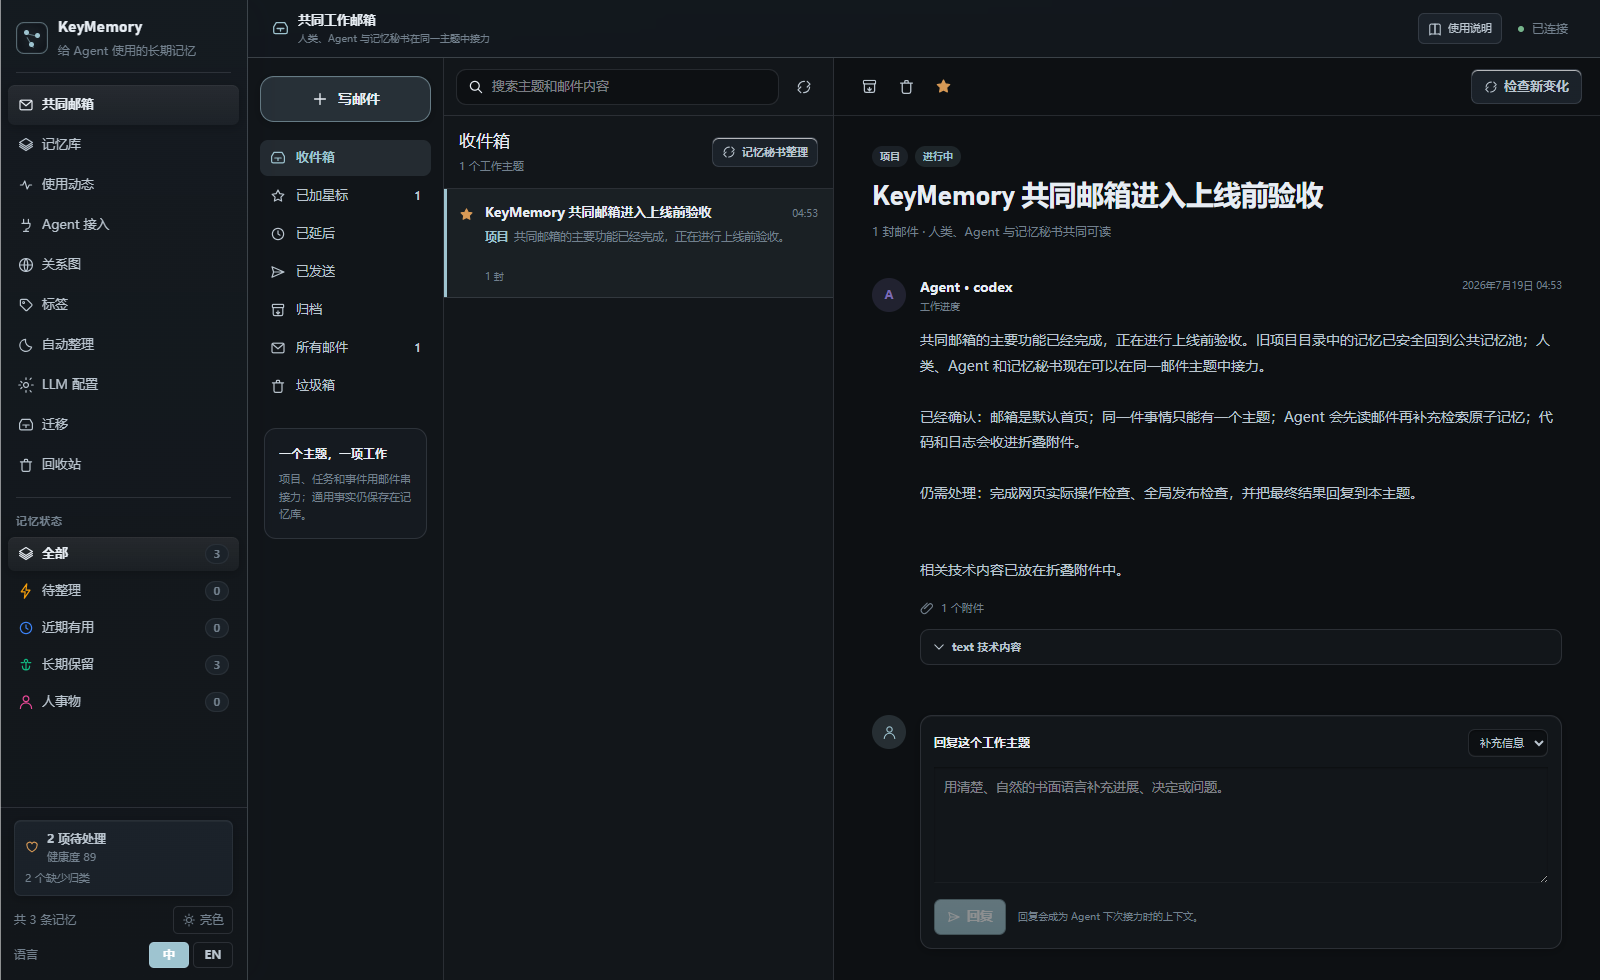
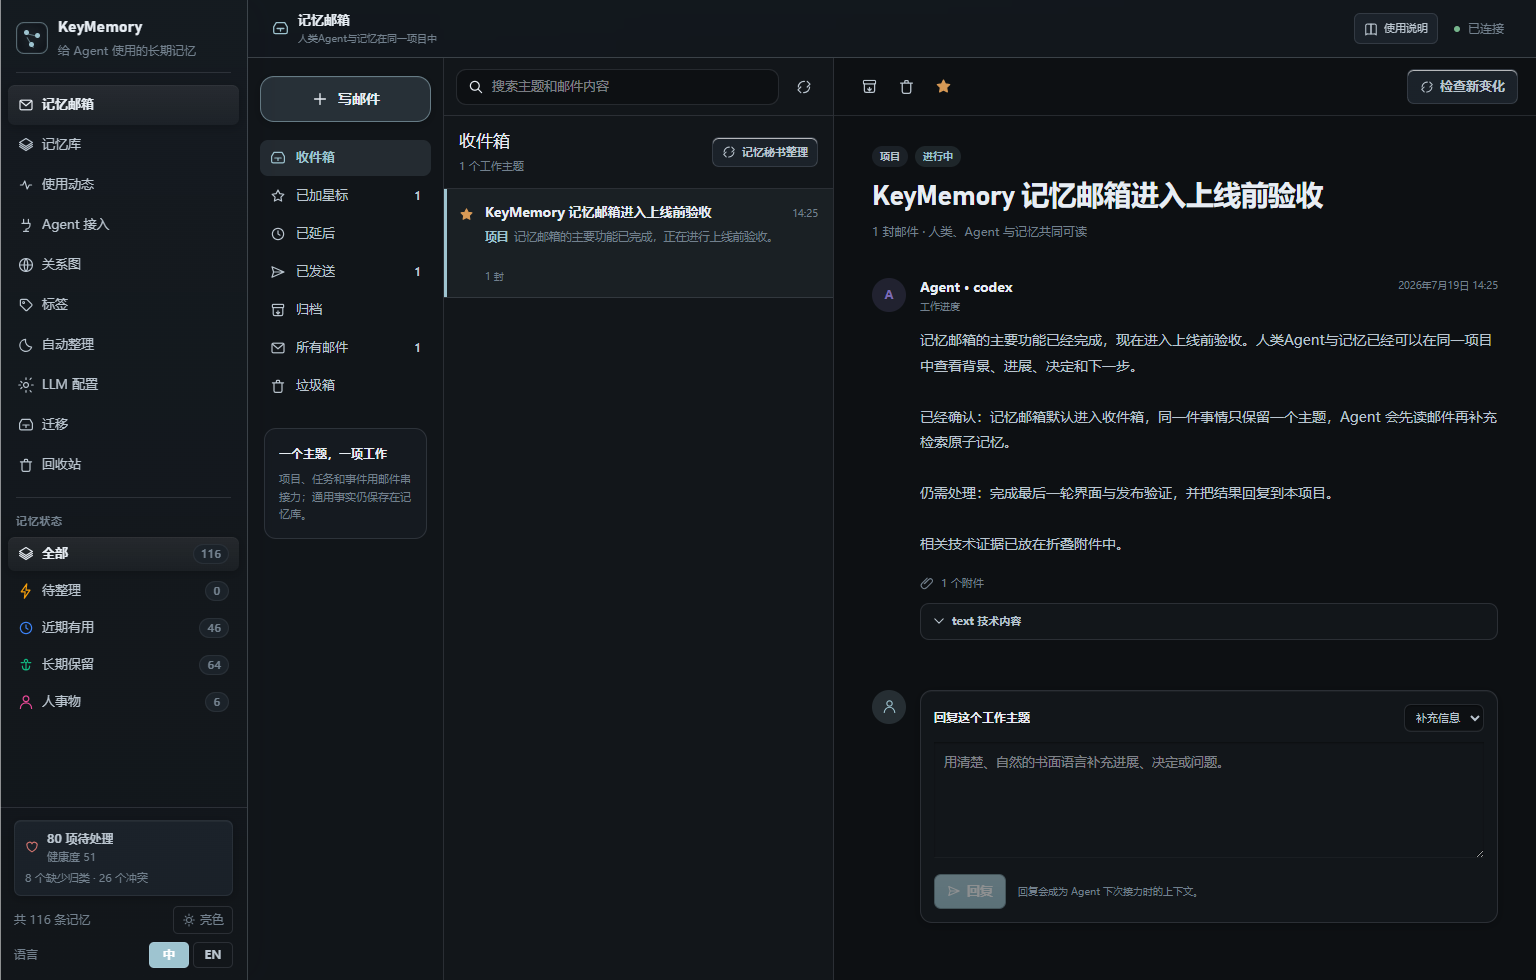
docs: 统一记忆邮箱产品文案

diff --git a/packages/web/src/components/MailboxView.tsx b/packages/web/src/components/MailboxView.tsx
@@ -94,7 +94,7 @@ function Composer({ onClose, onCreated, zh }: ComposerProps) {
       <form onSubmit={submit} className="mail-compose-form">
         <label className="mail-compose-field">
           <span>{zh ? '收件人' : 'To'}</span>
-          <input value={zh ? '共同工作邮箱（人类与已接入的 Agent）' : 'Shared work inbox (human and connected Agents)'} readOnly />
+          <input value={zh ? '记忆邮箱（人类与已接入的 Agent）' : 'Memory mailbox (human and connected Agents)'} readOnly />
         </label>
         <label className="mail-compose-field">
           <span>{zh ? '类型' : 'Type'}</span>
@@ -260,7 +260,7 @@ export default function MailboxView() {
         </div>
         <div className="mail-thread-list">
           {loading ? <div className="mail-empty">{zh ? '正在取信…' : 'Loading mail…'}</div> : threads.length === 0 ? (
-            <div className="mail-empty"><Mail size={30} /><strong>{search ? (zh ? '没有找到相关邮件' : 'No matching mail') : (zh ? '这里还没有邮件' : 'No mail here yet')}</strong><p>{zh ? '为一项具体工作写第一封邮件，后续人类、Agent 和记忆秘书都会在同一主题中回复。' : 'Write the first message for a concrete body of work.'}</p></div>
+            <div className="mail-empty"><Mail size={30} /><strong>{search ? (zh ? '没有找到相关邮件' : 'No matching mail') : (zh ? '这里还没有邮件' : 'No mail here yet')}</strong><p>{zh ? '为一项具体工作写第一封邮件，后续人类、Agent 与记忆会在同一项目中持续补充信息。' : 'Write the first message for a concrete body of work.'}</p></div>
           ) : threads.map((thread) => (
             <button type="button" key={thread.id} className={`mail-thread-row${thread.id === selectedId ? ' active' : ''}${thread.unreadCount > 0 ? ' unread' : ''}`} onClick={() => openThread(thread.id)}>
               <span className="mail-row-star" onClick={(event) => { event.stopPropagation(); void updateMailboxThread(thread.id, { starred: !thread.starred }).then(() => refresh()); }}><Star size={15} style={{ fill: thread.starred ? 'var(--warning)' : 'none', color: thread.starred ? 'var(--warning)' : undefined }} /></span>
@@ -285,7 +285,7 @@ export default function MailboxView() {
               <header className="mail-thread-header">
                 <div><span className="mail-kind-badge">{zh ? KIND_LABEL[detail.thread.kind].zh : KIND_LABEL[detail.thread.kind].en}</span><span className={`mail-status-badge status-${detail.thread.status}`}>{detail.thread.status === 'open' ? (zh ? '进行中' : 'Open') : detail.thread.status === 'waiting' ? (zh ? '等待中' : 'Waiting') : (zh ? '已完成' : 'Completed')}</span></div>
                 <h1>{detail.thread.subject}</h1>
-                <p>{zh ? `${detail.thread.messageCount} 封邮件 · 人类、Agent 与记忆秘书共同可读` : `${detail.thread.messageCount} messages · shared by human, Agents, and Memory Secretary`}</p>
+                <p>{zh ? `${detail.thread.messageCount} 封邮件 · 人类、Agent 与记忆共同可读` : `${detail.thread.messageCount} messages · shared by humans, Agents, and memory`}</p>
               </header>
               <div className="mail-message-stack">
                 {detail.messages.map((message, index) => (

diff --git a/packages/web/src/components/UserGuide.tsx b/packages/web/src/components/UserGuide.tsx
@@ -120,7 +120,7 @@ function VerifyPage() {
       <h3>看到三项通过，才算真正接好。</h3>
       <div className="guide-check-list">
         <div><b>1</b><div><strong>设置已经写入</strong><span>回到接入页面，点击“检测接入状态”，页面应显示“已检测到配置”。</span></div></div>
-        <div><b>2</b><div><strong>助手能读到收件箱</strong><span>让助手检查 KeyMemory 连接，再列出共同邮箱。它必须返回真实主题，不能只口头说成功。</span></div></div>
+        <div><b>2</b><div><strong>助手能读到收件箱</strong><span>让助手检查 KeyMemory 连接，再列出记忆邮箱。它必须返回真实主题，不能只口头说成功。</span></div></div>
         <div><b>3</b><div><strong>助手能回复并找回</strong><span>开始真实工作后，让助手把进度回复到邮件，再重新读取。不要专门制造无用测试内容。</span></div></div>
       </div>
       <div className="guide-callout"><RefreshCw size={18} /><div><strong>如果第一项通过、后两项失败</strong><span>通常只需要重启对应的 AI 助手，再让它重新检查一次。</span></div></div>
@@ -146,7 +146,7 @@ function CapturePage() {
 
 function FeaturesPage() {
   const items = [
-    ['共同邮箱', '一项工作一个主题；人类、Agent 和记忆秘书通过回复接力。'],
+    ['记忆邮箱', '一项工作一个主题；人类、Agent 与记忆在同一项目中持续补充信息。'],
     ['记忆库', '查看、搜索、修改可跨事情复用的偏好、规则、事实和经验。'],
     ['使用动态', '看看最近哪些记忆被读取、哪些事情正在继续。'],
     ['Agent 接入', '连接新的 AI 助手，复制中文接入提示词，检查连接状态。'],
@@ -160,9 +160,9 @@ function FeaturesPage() {
     <article>
       <div className="guide-page-number">05</div>
       <span className="guide-eyebrow">页面功能一览</span>
-      <h3>平时最常用的是“共同邮箱”和“Agent 接入”。</h3>
+      <h3>平时最常用的是“记忆邮箱”和“Agent 接入”。</h3>
       <div className="guide-feature-grid">
-        {items.map(([title, description]) => <div key={title}>{title === '共同邮箱' ? <Mail size={15} /> : <Layers size={15} />}<strong>{title}</strong><span>{description}</span></div>)}
+        {items.map(([title, description]) => <div key={title}>{title === '记忆邮箱' ? <Mail size={15} /> : <Layers size={15} />}<strong>{title}</strong><span>{description}</span></div>)}
       </div>
     </article>
   );

diff --git a/packages/web/src/App.tsx b/packages/web/src/App.tsx
@@ -350,8 +350,8 @@ function AppInner() {
               <div style={{ display: 'flex', alignItems: 'center', gap: 9, minWidth: 0 }}>
                 <Inbox size={17} style={{ color: 'var(--accent)' }} />
                 <div style={{ minWidth: 0 }}>
-                  <strong style={{ display: 'block', color: 'var(--text-primary)', fontSize: 13 }}>{language === 'zh' ? '共同工作邮箱' : 'Shared work mailbox'}</strong>
-                  <span style={{ display: 'block', color: 'var(--text-muted)', fontSize: 10, overflow: 'hidden', textOverflow: 'ellipsis', whiteSpace: 'nowrap' }}>{language === 'zh' ? '人类、Agent 与记忆秘书在同一主题中接力' : 'Human, Agents, and Memory Secretary hand off in one thread'}</span>
+                  <strong style={{ display: 'block', color: 'var(--text-primary)', fontSize: 13 }}>{language === 'zh' ? '记忆邮箱' : 'Memory mailbox'}</strong>
+                  <span style={{ display: 'block', color: 'var(--text-muted)', fontSize: 10, overflow: 'hidden', textOverflow: 'ellipsis', whiteSpace: 'nowrap' }}>{language === 'zh' ? '人类Agent与记忆在同一项目中' : 'Humans, Agents, and memory in one project'}</span>
                 </div>
               </div>
             )}

diff --git a/packages/web/src/components/LLMConfigView.tsx b/packages/web/src/components/LLMConfigView.tsx
@@ -76,7 +76,7 @@ export default function LLMConfigView() {
       setLoading(false);
     }
     // 加载原子记忆之间的关联推理统计（不阻塞主配置加载）。
-    // 具体工作的接力已经统一由共同邮箱承担，不再展示旧项目接龙入口。
+    // 具体工作的接力已经统一由记忆邮箱承担，不再展示旧项目接龙入口。
     loadFeatureStats();
   }
 
@@ -527,7 +527,7 @@ export default function LLMConfigView() {
         </ul>
       </section>
 
-      {/* 原子记忆保留关联推理；具体工作接力统一在共同邮箱中完成。 */}
+      {/* 原子记忆保留关联推理；具体工作接力统一在记忆邮箱中完成。 */}
       <section
         style={{
           marginTop: 18,

diff --git a/packages/server/src/core/mcp-tools.ts b/packages/server/src/core/mcp-tools.ts
@@ -320,7 +320,7 @@ const BASE_MCP_TOOLS: MCPTool[] = [
   },
   {
     name: 'memory_inbox_list',
-    description: '列出当前 Agent 的共同邮箱。开始或继续具体项目、任务、事件时，先读收件箱并找到唯一的相关邮件主题，再搜索零散记忆。 List the shared Agent inbox first and find the single related thread before raw memory search.',
+    description: '列出当前 Agent 的记忆邮箱。开始或继续具体项目、任务、事件时，先读收件箱并找到唯一的相关邮件主题，再搜索零散记忆。 List the memory mailbox first and find the single related thread before raw memory search.',
     inputSchema: mailboxListSchema,
     annotations: { readOnlyHint: true },
   },

diff --git a/packages/server/src/core/dreaming.ts b/packages/server/src/core/dreaming.ts
@@ -597,7 +597,7 @@ function runDeepPhase(reportId: string, lightSession: DreamSession, remSession: 
 
   const candidatesProcessed = candidates.length + actions.length;
 
-  // 共同邮箱已替代自动项目归集：未进入具体邮件线程的内容就是正常的公共
+  // 记忆邮箱已替代自动项目归集：未进入具体邮件线程的内容就是正常的公共
   // 原子记忆，不再自动创建/选择项目目录，也不再生成“孤立记忆”文件夹待办。
   const autoRouted = 0;
   const orphans: DreamTodoItem[] = [];

diff --git a/packages/web/src/i18n.tsx b/packages/web/src/i18n.tsx
@@ -55,7 +55,7 @@ const zh: Record<string, string> = {
   'memoryState.allHelp': '查看所有仍在使用的记忆。',
   'memoryState.clear': '查看全部',
 
-  'nav.mailbox': '共同邮箱',
+  'nav.mailbox': '记忆邮箱',
   'nav.memories': '记忆库',
   'nav.nebula': '关系图',
   'nav.tags': '标签',

diff --git a/packages/web/src/index.css b/packages/web/src/index.css
@@ -2070,7 +2070,7 @@ label {
 
 /* === 响应式 === */
 
-/* === 共同工作邮箱 === */
+/* === 记忆邮箱 === */
 .mailbox-shell {
   display: grid;
   grid-template-columns: 196px minmax(310px, 390px) minmax(460px, 1fr);

diff --git a/docs/中文使用说明.md b/docs/中文使用说明.md
@@ -4,7 +4,7 @@
 
 ## 一句话认识 KeyMemory
 
-KeyMemory 是人类和多个 AI 助手共用的一间本地记忆办公室。具体工作通过共同邮箱接力，通用知识保存在记忆库中。
+KeyMemory 是人类和多个 AI 助手共用的一间本地记忆办公室。具体工作通过记忆邮箱串联，通用知识保存在记忆库中。
 
 它会帮助 AI 助手记住：
 
@@ -110,11 +110,11 @@ KeyMemory 会给 AI 助手安装一份使用规则。规则会告诉它：什么
 
 ## 页面上的每个功能怎么用
 
-### 共同邮箱
+### 记忆邮箱
 
 这是打开 KeyMemory 后的默认首页。一项具体项目、任务或事件只写一个清楚的邮件主题，后续变化继续回复原邮件。你可以像使用普通邮箱一样补充背景、纠正信息、确认决定或提出问题；Agent 会把进度和结果写回同一主题，记忆秘书会把关联记忆的新变化去重整理后回复进来。
 
-邮件正文同时给人类和 Agent 阅读，所以应使用通俗的书面语言。代码、日志和其他技术细节会收进折叠附件。共同邮箱是 KeyMemory 内部功能，不会连接 Gmail 或 Outlook，也不会主动唤醒 Agent。
+邮件正文同时给人类和 Agent 阅读，所以应使用通俗的书面语言。代码、日志和其他技术细节会收进折叠附件。记忆邮箱是 KeyMemory 内部功能，不会连接 Gmail 或 Outlook，也不会主动唤醒 Agent。
 
 ### 记忆库
 

diff --git a/docs/mailbox.md b/docs/mailbox.md
@@ -1,6 +1,6 @@
-# 共同邮箱与 Agent 使用协议
+# 记忆邮箱与 Agent 使用协议
 
-共同邮箱是 KeyMemory 汇集具体项目、任务和事件上下文的主入口。它模拟真实工作邮箱，但不连接 Gmail、Outlook 或任何外部邮件服务。
+记忆邮箱是 KeyMemory 汇集具体项目、任务和事件上下文的主入口。它模拟真实工作邮箱，但不连接 Gmail、Outlook 或任何外部邮件服务。
 
 ## 一事一主题
 
